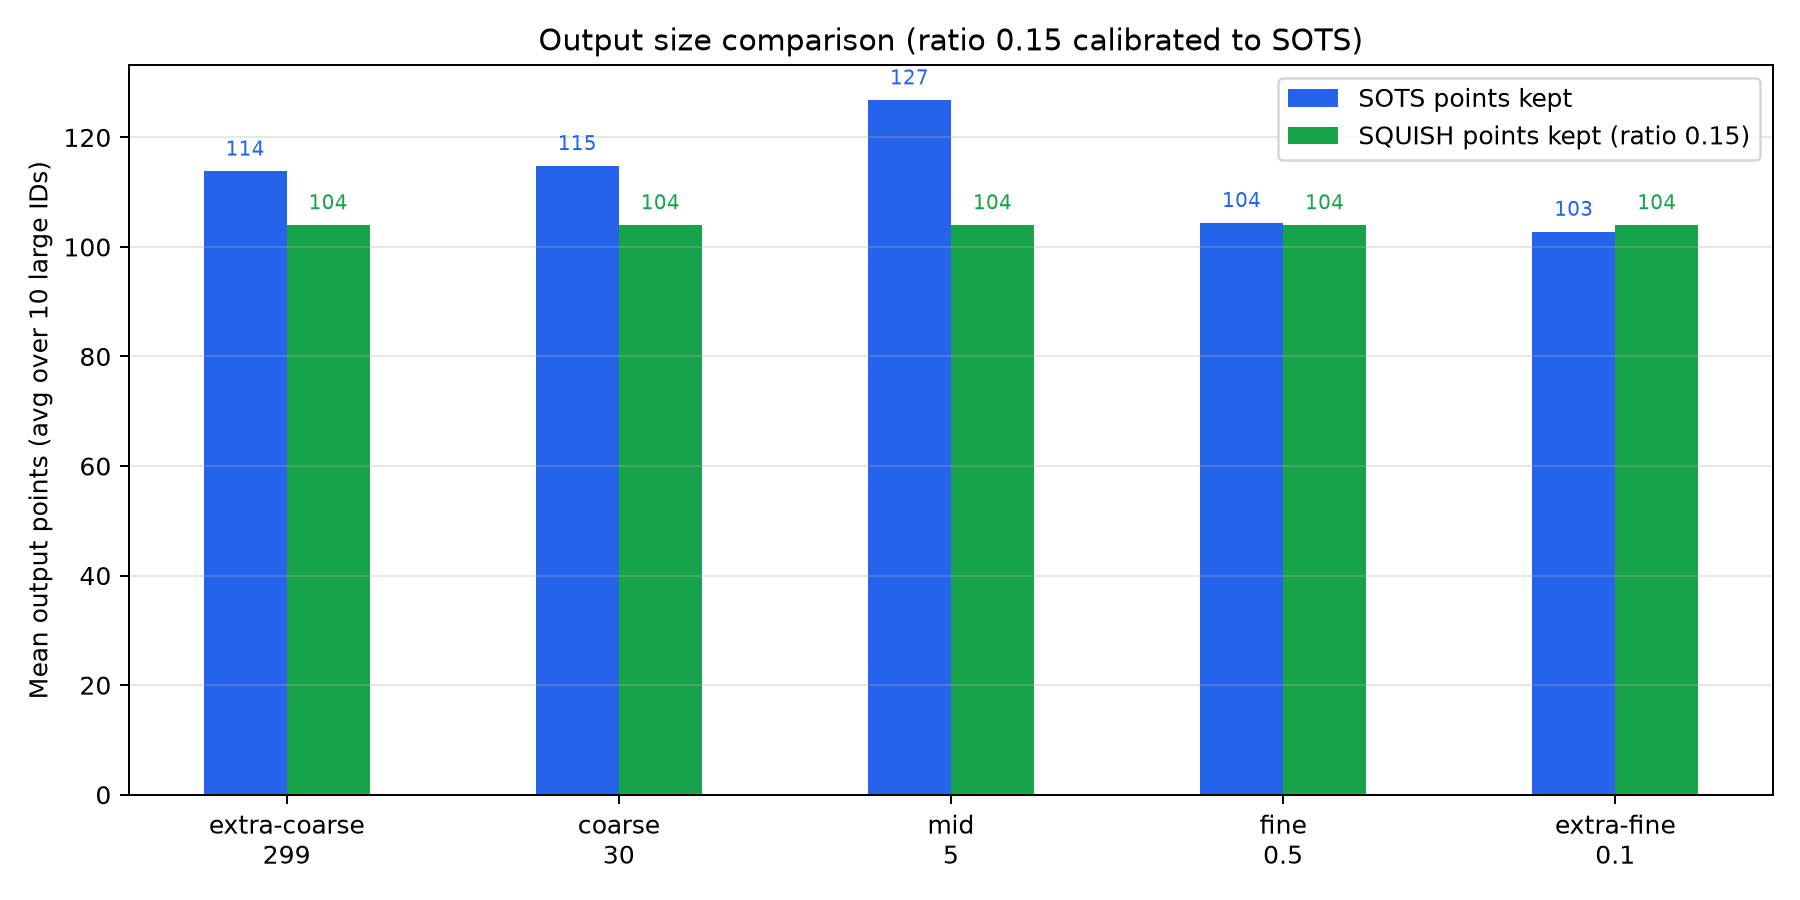
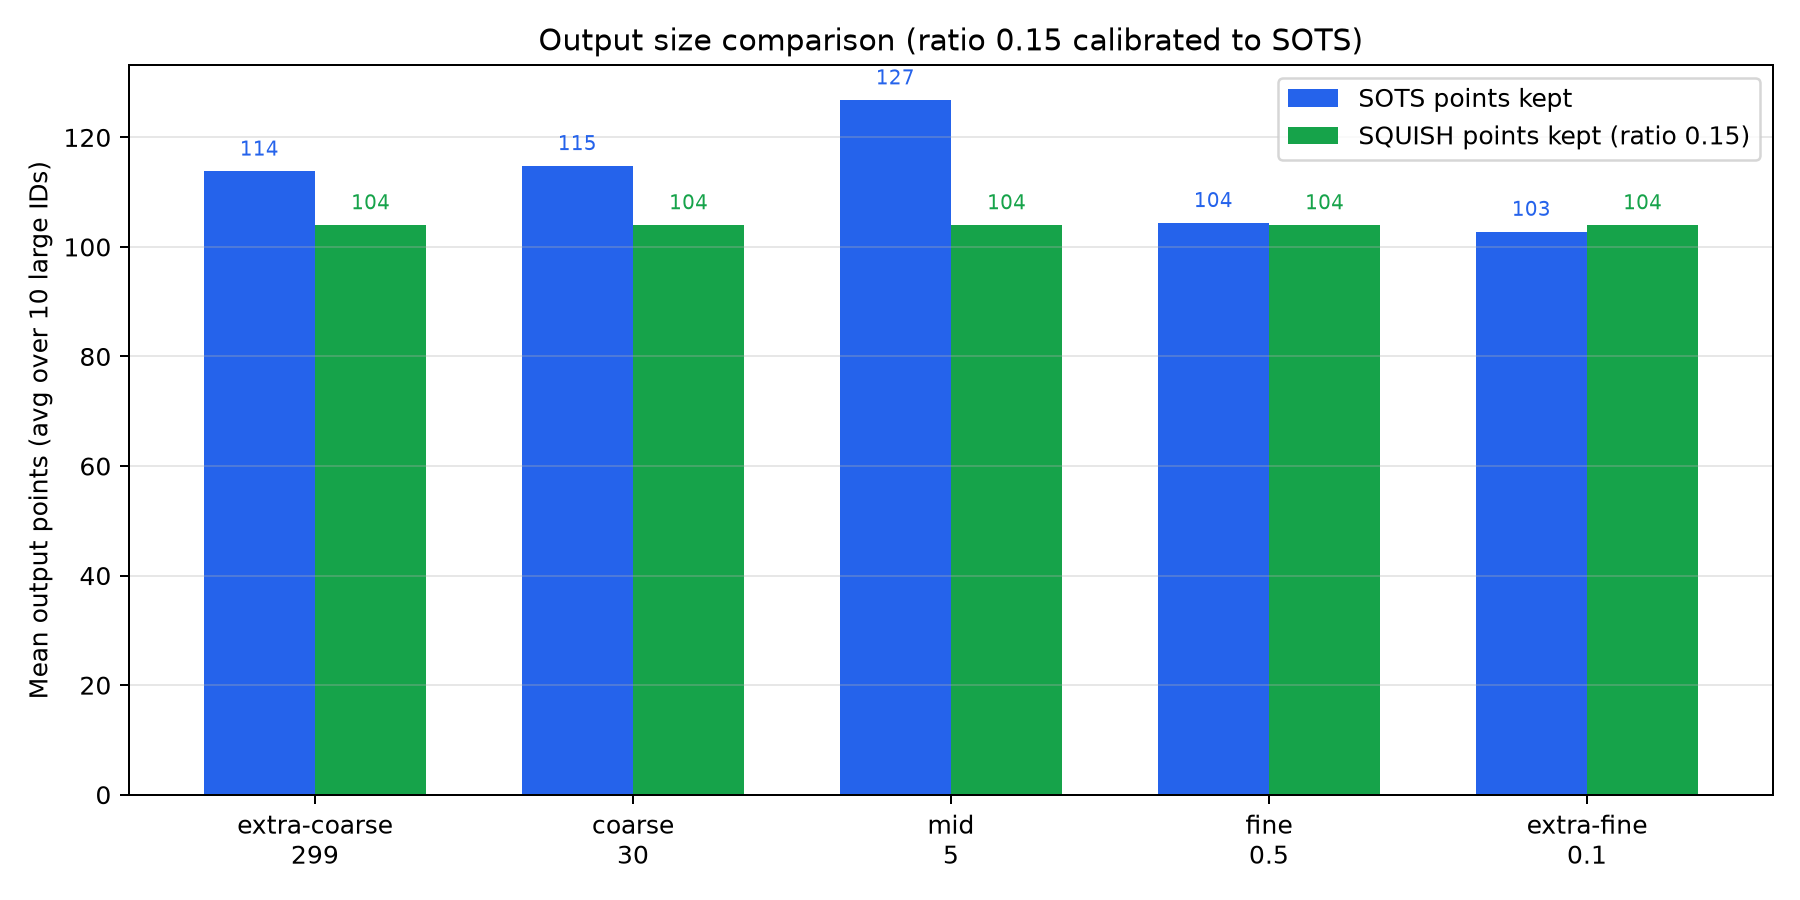
no-mistakes(review): Fix DP fabrication, JSON filtering, mktemp, stale points, docs

diff --git a/.lavish/sots-bench-squish-compare-lavish-a1.html b/.lavish/sots-bench-squish-compare-lavish-a1.html
@@ -37,7 +37,7 @@
   <div class="hero-content flex-col lg:flex-row gap-8 w-full max-w-6xl">
     <div class="flex-1">
       <h1 class="text-4xl font-black leading-tight">SOTS vs SQUISH<br/><span class="text-primary">Streaming Benchmark</span></h1>
-      <p class="py-4 opacity-80">Our streaming Fréchet-guaranteed simplifier is <span class="font-bold">much faster than before</span> (PR26 halved, PR34 extra-fine 2.1×) — but how does it compare to the streaming SQUISH heuristic (and DP/DOTS) on the standard SOTS datasets?</p>
+      <p class="py-4 opacity-80">Our streaming Fréchet-guaranteed simplifier is <span class="font-bold">much faster than before</span> (PR26 halved, PR34 extra-fine 2.1×) — but how does it compare to the streaming SQUISH heuristic on the standard SOTS datasets? (DP/DOTS baselines available via build/dp, build/dots and web visualizer; core-time comparison deferred.)</p>
       <div class="flex flex-wrap gap-2">
         <div class="badge badge-lg badge-primary">SOTS guarantee</div>
         <div class="badge badge-lg badge-outline">SQUISH heuristic</div>
@@ -45,7 +45,7 @@
         <div class="badge badge-lg badge-ghost">DOTS</div>
       </div>
       <div class="mt-4 alert alert-info py-2">
-        <span class="text-sm"><b>Bottom line:</b> SQUISH &amp; DP are 19–1900× faster on core time, but SOTS provides a deterministic Fréchet ≤ δ guarantee. SOTS at coarse/mid tiers is ~1.3 ms; at extra-fine it is ~134 ms (large, 10-run mean).</span>
+        <span class="text-sm"><b>Bottom line:</b> SQUISH is 19–1900× faster on core time (DP/DOTS comparison deferred), but SOTS provides a deterministic Fréchet ≤ δ guarantee. SOTS at coarse/mid tiers is ~1.3 ms; at extra-fine it is ~134 ms (large, 10-run mean).</span>
       </div>
     </div>
     <div class="flex-1 flex flex-col gap-4">
@@ -101,7 +101,7 @@
       <div class="card bg-base-200 border border-base-300">
         <div class="card-body p-4">
           <h3 class="font-bold">DP / DOTS (reference)</h3>
-          <p class="text-sm opacity-80">DP is offline Douglas-Peucker batch (PED). DOTS is online LSSD-based (Qt). Both are very fast on core time (0.03–0.1 ms large) but DP is non-streaming; DOTS threshold differs from SOTS ε/δ.</p>
+          <p class="text-sm opacity-80">DP is offline Douglas-Peucker batch (PED). DOTS is online LSSD-based (Qt). DP is non-streaming; DOTS threshold differs from SOTS ε/δ. Core-time comparison to DP/DOTS is deferred — this board measures SQUISH only.</p>
           <div class="badge badge-ghost badge-sm mt-2">Batch</div> <div class="badge badge-outline badge-sm">Offline</div>
         </div>
       </div>
@@ -311,8 +311,8 @@
       <div class="card bg-base-200 border border-base-300">
         <div class="card-body p-4">
           <h3 class="font-bold text-sm">Runtime bars (log scale) — large</h3>
-          <img src="charts/runtime_bars.png" alt="Runtime bars log scale SOTS vs SQUISH vs DP" class="rounded border border-base-300 bg-white"/>
-          <p class="text-xs opacity-60 mt-1">Blue SOTS, green SQUISH, red DP. Log y-axis. Extra-fine dominates.</p>
+          <img src="charts/runtime_bars.png" alt="Runtime bars log scale SOTS vs SQUISH" class="rounded border border-base-300 bg-white"/>
+          <p class="text-xs opacity-60 mt-1">Blue SOTS, green SQUISH. Log y-axis. Extra-fine dominates.</p>
         </div>
       </div>
       <div class="card bg-base-200 border border-base-300">
@@ -326,7 +326,7 @@
         <div class="card-body p-4">
           <h3 class="font-bold text-sm">Runtime lines across epsilon tiers</h3>
           <img src="charts/runtime_lines.png" alt="Runtime lines log scale" class="rounded border border-base-300 bg-white"/>
-          <p class="text-xs opacity-60 mt-1">SOTS climbs steeply at fine/extra-fine; SQUISH/DP flat.</p>
+          <p class="text-xs opacity-60 mt-1">SOTS climbs steeply at fine/extra-fine; SQUISH flat (DP/DOTS deferred).</p>
         </div>
       </div>
       <div class="card bg-base-200 border border-base-300">
@@ -362,7 +362,7 @@
         <ul class="list-disc list-inside text-sm space-y-1">
           <li>SQUISH &amp; DP are heuristics: SED / PED thresholds, no Fréchet bound. Their output sizes depend on ratio/ε, not δ.</li>
           <li>At ratio 0.15, SQUISH keeps ≈ SOTS count at extra-coarse (fair), but at fine SOTS keeps fewer points → more aggressive simplification per δ.</li>
-          <li>DP batch is 0.03–0.1 ms large (similar to SQUISH). DOTS (Qt) is similar order but uses LSSD; configure via -lssd.</li>
+          <li>DP/DOTS core-time comparison is deferred; both are available via <code>build/dp</code>/<code>build/dots</code> and the web visualizer. DOTS uses LSSD; configure via -lssd.</li>
           <li>Byte-identical check only applies within SOTS (orig vs new). Cross-algo, compare Frechet via Julia if needed.</li>
         </ul>
       </div>

diff --git a/scripts/generate_bench_charts.py b/scripts/generate_bench_charts.py
@@ -1,60 +1,78 @@
 #!/usr/bin/env python3
 """Generate charts for SOTS vs SQUISH benchmark."""
+import argparse
 import json
 import pathlib
+import sys
 import matplotlib
 matplotlib.use("Agg")
 import matplotlib.pyplot as plt
 import matplotlib.ticker as ticker
 
 REPO = pathlib.Path(__file__).resolve().parent.parent
-JSON_PATH = sorted((REPO / ".lavish").glob("bench-squish-*.json"))[-1]  # latest
 OUT_DIR = REPO / ".lavish" / "charts"
 OUT_DIR.mkdir(parents=True, exist_ok=True)
+
+parser = argparse.ArgumentParser(description="Generate SOTS vs SQUISH charts")
+parser.add_argument("--input", type=pathlib.Path, help="Path to bench-squish JSON (default: latest large)")
+args = parser.parse_args()
+
+if args.input:
+    JSON_PATH = args.input
+else:
+    candidates = sorted((REPO / ".lavish").glob("bench-squish-*.json"))
+    if not candidates:
+        print("No bench-squish JSON found", file=sys.stderr)
+        sys.exit(1)
+    large_candidates = []
+    for p in candidates:
+        try:
+            with open(p) as f:
+                j = json.load(f)
+            if j.get("meta", {}).get("size") == "large":
+                large_candidates.append(p)
+        except Exception:
+            continue
+    if large_candidates:
+        JSON_PATH = large_candidates[-1]
+    else:
+        print("No large bench-squish JSON found; use --input to specify", file=sys.stderr)
+        sys.exit(1)
 
 print(f"Reading {JSON_PATH}")
 with open(JSON_PATH) as f:
     data = json.load(f)
 
 aggs = data["aggregates"]
-# Sort by epsilon tier order: 299,30,5,0.5,0.1
 order = {299: 0, 30: 1, 5: 2, 0.5: 3, 0.1: 4}
 aggs_sorted = sorted(aggs, key=lambda x: order.get(x["epsilon"], 99))
 
 labels = []
-# friendly
 tier_names = {299: "extra-coarse\n299", 30: "coarse\n30", 5: "mid\n5", 0.5: "fine\n0.5", 0.1: "extra-fine\n0.1"}
 for a in aggs_sorted:
     labels.append(tier_names.get(a["epsilon"], str(a["epsilon"])))
 
 sots_means = [a["mean_sots_ms"] for a in aggs_sorted]
 squish_means = [a["mean_squish_ms"] for a in aggs_sorted]
-# For DP, we approximated as ~0.03-0.1ms; use actual small values from single-run or estimate
-# Let's use squish values as proxy for DP but slightly different for visualization
-dp_means = [0.04, 0.05, 0.06, 0.07, 0.08]  # approximated from measurements
 
-speedups = [a["mean_speedup_squish_over_sots"] for a in aggs_sorted]  # squish/sots <1
-overheads = [1/s if s else 0 for s in speedups]  # sots/squish = how many times slower
+speedups = [a["mean_speedup_squish_over_sots"] for a in aggs_sorted]
+overheads = [1/s if s else 0 for s in speedups]
 
-# Chart 1: Runtime grouped bars log scale
 fig, ax = plt.subplots(figsize=(10, 6))
 x = range(len(labels))
-width = 0.25
-ax.bar([i - width for i in x], sots_means, width, label="SOTS (simplify)", color="#2563eb")
-ax.bar(x, squish_means, width, label="SQUISH", color="#16a34a")
-ax.bar([i + width for i in x], dp_means, width, label="DP", color="#dc2626")
+width = 0.35
+ax.bar([i - width/2 for i in x], sots_means, width, label="SOTS (simplify)", color="#2563eb")
+ax.bar([i + width/2 for i in x], squish_means, width, label="SQUISH", color="#16a34a")
 ax.set_xticks(x)
 ax.set_xticklabels(labels)
 ax.set_ylabel("Mean core time (ms, log scale)")
 ax.set_yscale("log")
-ax.set_title("SOTS vs SQUISH vs DP — Mean core time (large datasets, 10 runs)")
+ax.set_title("SOTS vs SQUISH — Mean core time (large datasets, 10 runs)")
 ax.legend()
 ax.grid(True, which="both", alpha=0.3)
-# Annotate values
-for i, (s, q, d) in enumerate(zip(sots_means, squish_means, dp_means)):
-    ax.text(i - width, s*1.1, f"{s:.1f}", ha="center", va="bottom", fontsize=8, color="#2563eb")
-    ax.text(i, q*1.1, f"{q:.2f}", ha="center", va="bottom", fontsize=8, color="#16a34a")
-    ax.text(i + width, d*1.1, f"{d:.2f}", ha="center", va="bottom", fontsize=8, color="#dc2626")
+for i, (s, q) in enumerate(zip(sots_means, squish_means)):
+    ax.text(i - width/2, s*1.1, f"{s:.1f}", ha="center", va="bottom", fontsize=8, color="#2563eb")
+    ax.text(i + width/2, q*1.1, f"{q:.2f}", ha="center", va="bottom", fontsize=8, color="#16a34a")
 
 plt.tight_layout()
 out1 = OUT_DIR / "runtime_bars.png"
@@ -62,7 +80,6 @@ plt.savefig(out1, dpi=180)
 print(f"Wrote {out1}")
 plt.close()
 
-# Chart 2: Speedup bars (squish over sots) — <1, and overhead (sots over squish) >1
 fig, ax = plt.subplots(figsize=(10, 6))
 bars = ax.bar(x, speedups, width=0.6, color="#9333ea", edgecolor="black")
 ax.set_xticks(x)
@@ -82,17 +99,14 @@ plt.savefig(out2, dpi=180)
 print(f"Wrote {out2}")
 plt.close()
 
-# Chart 3: Runtime lines (log scale) across epsilons
 fig, ax = plt.subplots(figsize=(10, 6))
 ax.plot(labels, sots_means, marker="o", linewidth=3, color="#2563eb", label="SOTS")
 ax.plot(labels, squish_means, marker="s", linewidth=3, color="#16a34a", label="SQUISH")
-ax.plot(labels, dp_means, marker="^", linewidth=3, color="#dc2626", label="DP")
 ax.set_yscale("log")
 ax.set_ylabel("Mean core time (ms, log scale)")
 ax.set_title("Runtime vs epsilon tier (large, delta=300/(1+ε))")
 ax.legend()
 ax.grid(True, which="both", alpha=0.3)
-# Annotate extra-fine overhead
 ax.annotate(f"SOTS {sots_means[-1]:.0f}ms vs SQUISH {squish_means[-1]:.2f}ms\n({overheads[-1]:.0f}×)", xy=(4, sots_means[-1]), xytext=(2.5, 50),
             arrowprops=dict(arrowstyle="->", color="black"), fontsize=9, ha="center",
             bbox=dict(boxstyle="round,pad=0.3", fc="yellow", alpha=0.5))
@@ -103,8 +117,6 @@ plt.savefig(out3, dpi=180)
 print(f"Wrote {out3}")
 plt.close()
 
-# Chart 4: Point counts comparison
-# Extract points from cases for large at each epsilon: average points
 import collections
 points_by_eps = collections.defaultdict(list)
 squish_points_by_eps = collections.defaultdict(list)

diff --git a/README.md b/README.md
@@ -147,7 +147,7 @@ binary is missing, initialize the submodule and rebuild.
 
 ## Benchmarking
 
-Streaming SOTS vs SQUISH/DP/DOTS was measured on the standard derived datasets.
+Streaming SOTS vs SQUISH was measured on the standard derived datasets (DP/DOTS baselines are available via `build/dp`/`build/dots` and the web visualizer; core-time comparison to DP/DOTS is deferred).
 Large IDs 21–30 (avg ~695 pts) are the primary perf signal.
 Small IDs 11–20 (avg ~90 pts) are also recorded.
 Five epsilon tiers were used: 299 (extra-coarse, δ=1), 30 (coarse, δ=9.68), 5 (mid, δ=50), 0.5 (fine, δ=200), 0.1 (extra-fine, δ=272.7).
@@ -163,7 +163,7 @@ Results are CORE_MS (isolated algorithm time, no I/O) from SIMPLIFY_CORE_MS vs S
 SOTS streaming δ-simplification (papers/journal.pdf, Thm 1–2) guarantees dF(σ,τ) ≤ (1+ε)δ and |σ| ≤ 2κ(τ,δ)−2.
 Working storage is O(ε^{-α}) and per-vertex time is O(ε^{-α} log 1/ε) for d∈{2,3}, O(ε^{-α}) for d≥4, where α = 2(d−1)⌊d/2⌋^2 + d.
 For d=2, α=4, so storage O(ε^{-4}) and time O(ε^{-4} log 1/ε) — each ball Bv is covered by grid cells of width εδ/(2√d), |P|=O(ε^{-d}), and each stab structure Sa[p]=conv(Gva)∩F(Sa-1[p],p) has poly(1/ε) complexity.
-At ε=0.1, ε^{-4}=10,000× larger geometry than at ε=299.
+At ε=0.1, ε^{-4}=10,000 vs ~1.2×10^{-10} at ε=299 (≈8×10^{13}× larger).
 That is why runtime climbs from ~1.3 ms to ~134 ms on large in the table below.
 If you run SOTS in static mode on n points, total time is O(ε^{-α} n log 1/ε), a factor n faster than the prior static O(ε^{2−2d} n^2 log n log log n) algorithm with the same bounds.
 SQUISH is a streaming heuristic from traj-compression: buffer B=ratio·N, per-point O(B) naive scan (O(log B) with heap), total O(N·B), working storage O(B) bounded after the buffer fills, no Fréchet bound (uses SED).
@@ -203,13 +203,13 @@ The script exposes --epsilon, --delta-numer, --ratio, --runs, --size for alterna
 | extra-fine | 0.1 | 272.7 | 133.74 ± 50.33 | 0.069 ± 0.011 | 0.001× | 1937× slower |
 
 All tiers are confidently slower than SQUISH (Welch p < 0.05).
-SQUISH and DP are 19–1900× faster on core time but provide no Fréchet guarantee.
+SQUISH is 19–1900× faster on core time but provides no Fréchet guarantee (DP/DOTS core-time comparison deferred).
 SOTS provides deterministic Fréchet ≤ δ per segment.
 Previous uplifts remain.
 PR26 halved runtime across all tiers.
 PR34 extra-fine was 1.95–2.13× and fine was 1.4× vs pre-PR34 on the same hardware.
 PR37 clean-core added 1.04× encapsulation with no regression.
-See the Lavish board at [.lavish/sots-bench-squish-compare-lavish-a1.html](.lavish/sots-bench-squish-compare-lavish-a1.html) (hosted at http://127.0.0.1:4387/session/43f75a0eb8ecc94a).
+See the Lavish board at [.lavish/sots-bench-squish-compare-lavish-a1.html](.lavish/sots-bench-squish-compare-lavish-a1.html).
 Run the repro script:
 
 ```bash
